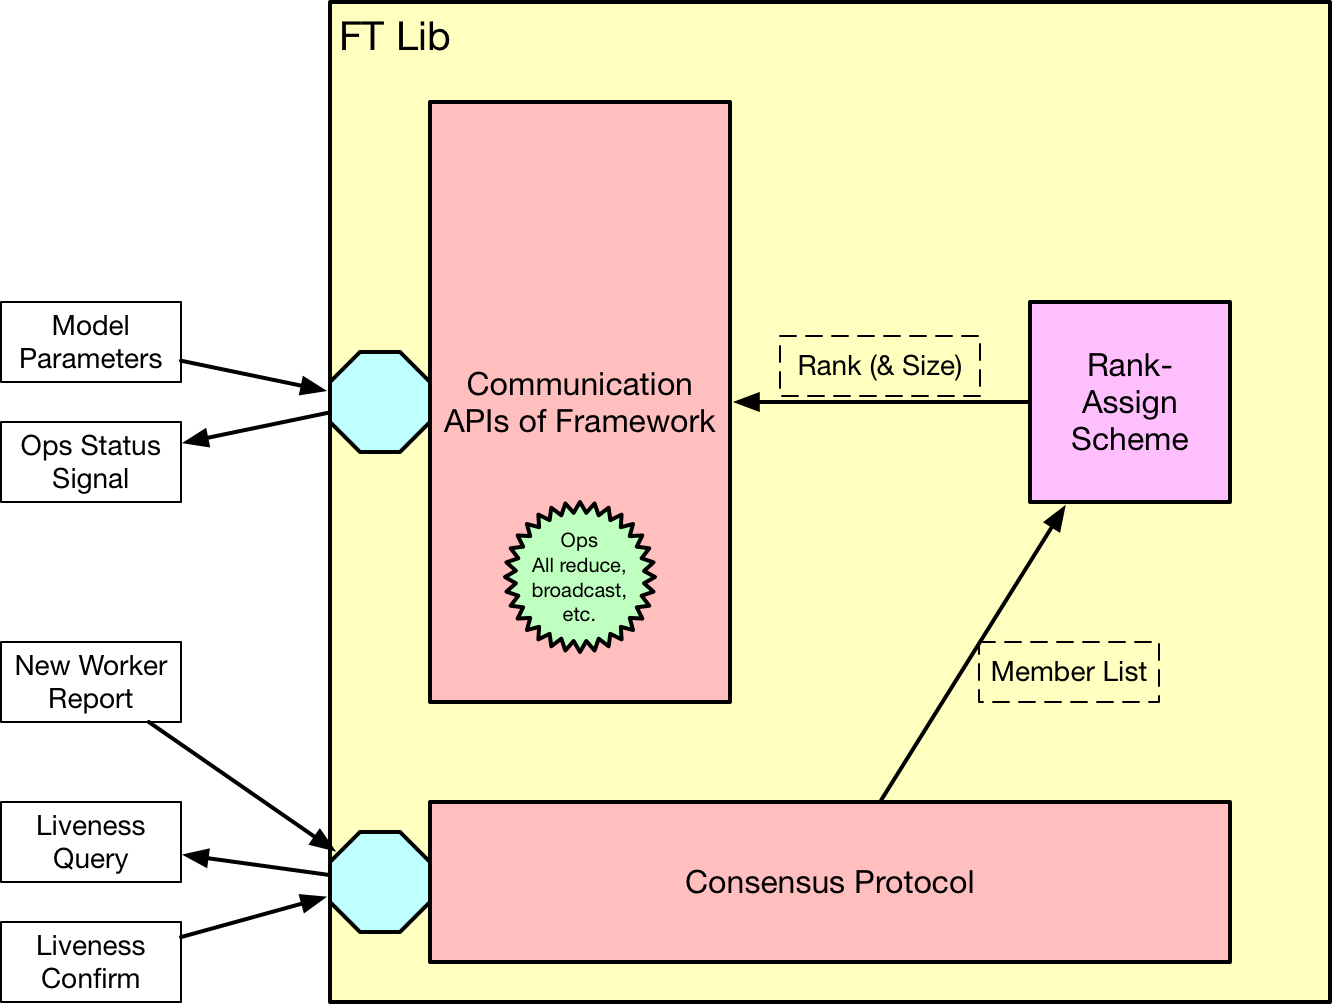
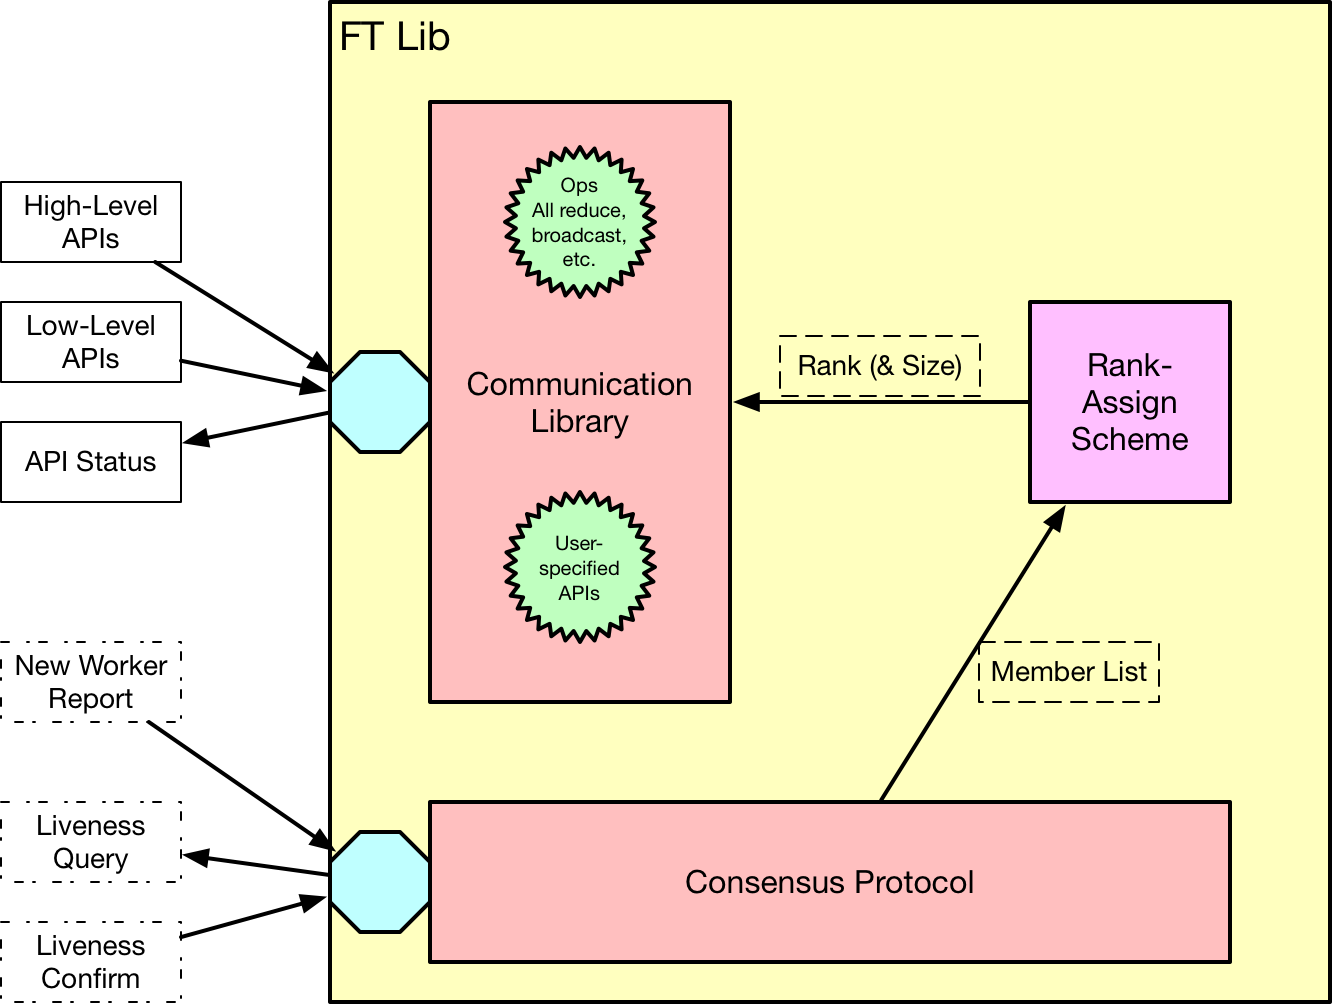
feat: refactor design docs (#26)
* fix: update consensus docs

* fix: update communication library docs

* fix: update ftlib docs

* fix: address issues from comments

diff --git a/docs/design/ftlib.md b/docs/design/ftlib.md
@@ -6,10 +6,10 @@
 
 *Fig 1. General Architecture of FTLib*
 
-FTLib maintains a set of collective communication APIs for distributed training regardless worker loss of join. It consists of two major components:
+FTLib maintains a set of low-level collective communication APIs as well as some high-level APIs for distributed training regardless worker loss of join. It consists of two major components:
 
 1. Consensus Protocol: maintains the member list of all participating workers. This member list is consented by all participating workers.
-2. Communication APIs of Framework: provides communication APIs for deep learning frameworks.
+2. Communication Library: provides communication APIs (*mostly for deep learning frameworks*).
 
 Additionally, since most communication libraries require rank assigned to each worker, a rank-assign scheme is introduced to convert the member list into rank numbers on different workers.
 
@@ -19,31 +19,41 @@ Additionally, since most communication libraries require rank assigned to each w
 
 *Fig 2. The Role FTLib Played in Distributed Training*
 
-In the contemporary design, the FTLib is called explicitly to perform collective operation on all parameters of a model.
+In the contemporary design, the FTLib is called explicitly to perform low-level collective operations or a set of operations wrapped in `FTLib.execute()`.
 
-For each batch of data, the model in each worker will be fed with training data, producing loss by forwarding and gradients by backward propagation. With local gradients ready on each worker, the allreduce API in FTLib will be called to average the gradients across all workers. As the operation is blocking, it indicates all parameters on this process is ready to be updated if allreduce API returns success. Otherwise, the training process will abort or continue according to different returned status.
+For each batch of data, the model in each worker will be fed with training data, producing loss by forward calculation and gradients by backward propagation. Once local gradients are successfully calculated on each worker, the allreduce API in FTLib will be called to average the gradients across all workers. As the operation is blocking, it indicates all parameters on this process is ready to be updated if allreduce API returns success.
 
-Before launching any communication operations, the FTLib will lock the process and unlock after finished or aborted. This design prevents the initialized flag from being modified by `Consensus.new_member_join` on other thread during the average phase.
+Otherwise, the training process will abort or continue according to different returned status.
 
-The initialized flag of a FTLib will be reset (to `False`) under three occasions:
+The entire step described above can be wrapped into a high-level customized API with FTLib, which hides the latency of communication by overlapping computation and communication.
+
+## Passive or Active Mode
+
+With different consensus methods, FTLib wraps communication APIs with two modes:
+
+- Active Mode: check member list consensus in `initialized()` and `skip_allreduce()` APIs  
+- Passive Mode: not perform the check described in activate mode
+
+Before launching any communication operations, the FTLib will lock all processes in all workers and unlock after finished or aborted. This design prevents the initialized flag from being modified by `Consensus.new_member_join`.
+
+For details about passive and active mode in consensus, please refer the [consensus design doc](./consensus.md).
+
+## FTLib Flow with Low-Level APIs
+
+The flow chart below describes how FTLib works internally when low-level APIs are used in distributed training.
+
+![ftlib_flow](../imgs/ftlib_flow.png)
+
+*Fig 3. The Internal Mechanism of FTLib*
+
+The `is_initialized` flag of a FTLib will be reset (to `False`) under three occasions:
 
 1. New workers report joining in
 2. Collective-communication operations fail or time out
 3. *Liveness probe fails for existing workers*
 
+There are different approaches for liveness probe. *(For example, we force a `clean_ip` function for each worker at exit and scan the shared storage to check the existence of ip files as liveness probe. However, in the gossip-based consensus protocol, each worker will pull/push gossip messages of liveness from/to random nodes as liveness probe.)*
 Here we assume the third case is or will eventually lead to the second one. Thusly, only the first and second occasions are handled explicitly in FTLib.
-
-*In the next design, we will consider hiding communication APIs of FTLib by wrapping model and optimizer, which hooks the communication operations for each parameter to its gradient calculation function. In this way, the optimizer will only need to check if all parameters hook are executed before updating weights.*
-
-**The next design will have the communication and backward computation overlapped, reducing the overall training time.**
-
-## FTLib Flow
-
-The flow chart below describes how FTLib works internally.
-
-![ftlib_flow](../imgs/ftlib_flow.png)
-
-*Fig 3. The Internal Mechanism of FTLib*
 
 `FTLib._rebuild()` takes 3 steps sequentially:
 
@@ -53,7 +63,7 @@ The flow chart below describes how FTLib works internally.
 
 Any exception in these 3 steps will make `FTLib._rebuild()` return rebuild failure.
 
-## FTLib APIs
+## FTLib APIs (TODO: move to dev-guide)
 
 FTLib provides the following APIs for initialization and communication:
 

diff --git a/docs/design/consensus.md b/docs/design/consensus.md
@@ -1,24 +1,30 @@
 ## Consensus
 
-The consensus protocol in FTLib acts as a shadow precondition for any collective communication operations. Any changes from the consensus protocol will reset the initialization flag of FTLib to `False`, deterring any communication operations after the rebuild procedure returns success.
+The consensus protocol in FTLib acts as a shadow precondition for any collective communication operations. Any changes from the consensus protocol will reset the `_initialized` flag of FTLib to `False`, deterring any communication operations after the rebuild procedure returns success. Depending on the choice of passive or active mode, such change takes place immediately or eventually (when FTLib check the consensus next time).
 
-A member list is maintained by the implementation of consensus protocol.
+A member list is maintained by an implementation of consensus protocol.
 
-The rank-assign scheme in FTLib can extract worker identification from the member list, such like address of each worker. This unique identification helps the rank-assign scheme to designate individual rank number to each worker, which most communication libraries require when initializing.
+The rank-assign scheme in FTLib can extract worker identification from the member list, such like address of each worker, which helps the rank-assign scheme to designate individual rank number to each worker. We map the identification of each worker with a hash function and sort the workers with respect to hash value. The worker with minimal hash value will be considered as the *master* worker. While the *master* worker acts identically as other workers in the training phase, it may have additional components or operations during initialization or other stages.
 
-When FTLib start to `rebuild`, it uses the `confirm` API of consensus protocol to check the member list is agreed by all existing workers.
+As described in [`FTLib`](./ftlib.md), if active mode is on, the `confirm` API will be called for in `initialized()` and `skip_allreduce()`, checking if member list has changed before communication API calls. 
 
 Not exposed to FTLib though, a `report_join` API in consensus protocol will be called inside the `confirm` function if the worker is freshly launched and has not successfully reported before. During the whole lifetime of a worker, the `report_join` API will not be called for a second time after a successfully trial.
 
-Every time FTLib succeeds or fails to perform collective operations, it will call the corresponding functions to inform the consensus protocol whether any actions need to be taken. However, these two functions can be ignored if no actions needed by the specific consensus protocol.
+Every time FTLib succeeds or fails to perform collective operations, it will call the corresponding functions to inform the consensus whether any actions need to be taken. However, these two functions can be ignored if no actions are needed by the specific consensus protocol.
 
-## Consensus API Introduction
+## Consensus API Introduction (TODO: move to dev-guide)
 
 ### 1. BasicConsensus.confirm()
 
-### 2. BasicConsensus.get_member_list()
+### 2. BasicConsensus.report_join()
 
-### 4. BasicConsensus.average_failure()
+### 3. BasicConsensus.get_member_list()
 
-### 5. BasicConsensus.average_success()
+### 4. BasicConsensus.passive_or_active()
+
+### 5. BasicConsensus.new_member_join()
+
+### 6. optional: BasicConsensus.average_failure()
+
+### 7. optional: BasicConsensus.average_success()
 

diff --git a/docs/design/communication_library.md b/docs/design/communication_library.md
@@ -1,0 +1,23 @@
+## Communication Library
+
+We believe there is no need to re-implement a communication library compatible with framework-specific data structures. Therefore, FTLib will import a user-specific communication library during initialization. 
+
+There are also deep learning frameworks that require highly customized usage of the collective communication APIs. In this case, we also expose several low-level APIs to facilitate that.
+
+Since we are working with ElasticDL, some low-level APIS are exposed.
+
+Users are also able to combine operations from the communication library as well as the deep learning frameworks to customize a function and throw it to `FTLib.execute()` to perform all-in-one action. In this way, we can save the synchronizations between actions and overlap the communication and computation actions wrapped in `FTLib.execute()`.
+
+Given most communication libraries bound with deep learning frameworks require an initialization step, we ask the `Framework` to provide another two APIs: `rebuild` and `abort_communicator`. The `rebuild` API does the initialization stuff while the `abort_communicator` covers all de-initialization things, which includes `ncclCommAbort` if `NCCL` is the backend or other API calls necessary before re-initialization.
+
+## Communication API Introduction (TODO: move to Dev-guide)
+
+### 1. communication.rebuild()
+
+### 2. communication.abort_communicator()
+
+### 3. communication.allreduce()
+
+### 4. communication.broadcast()
+
+### 5. communication.barrier()
